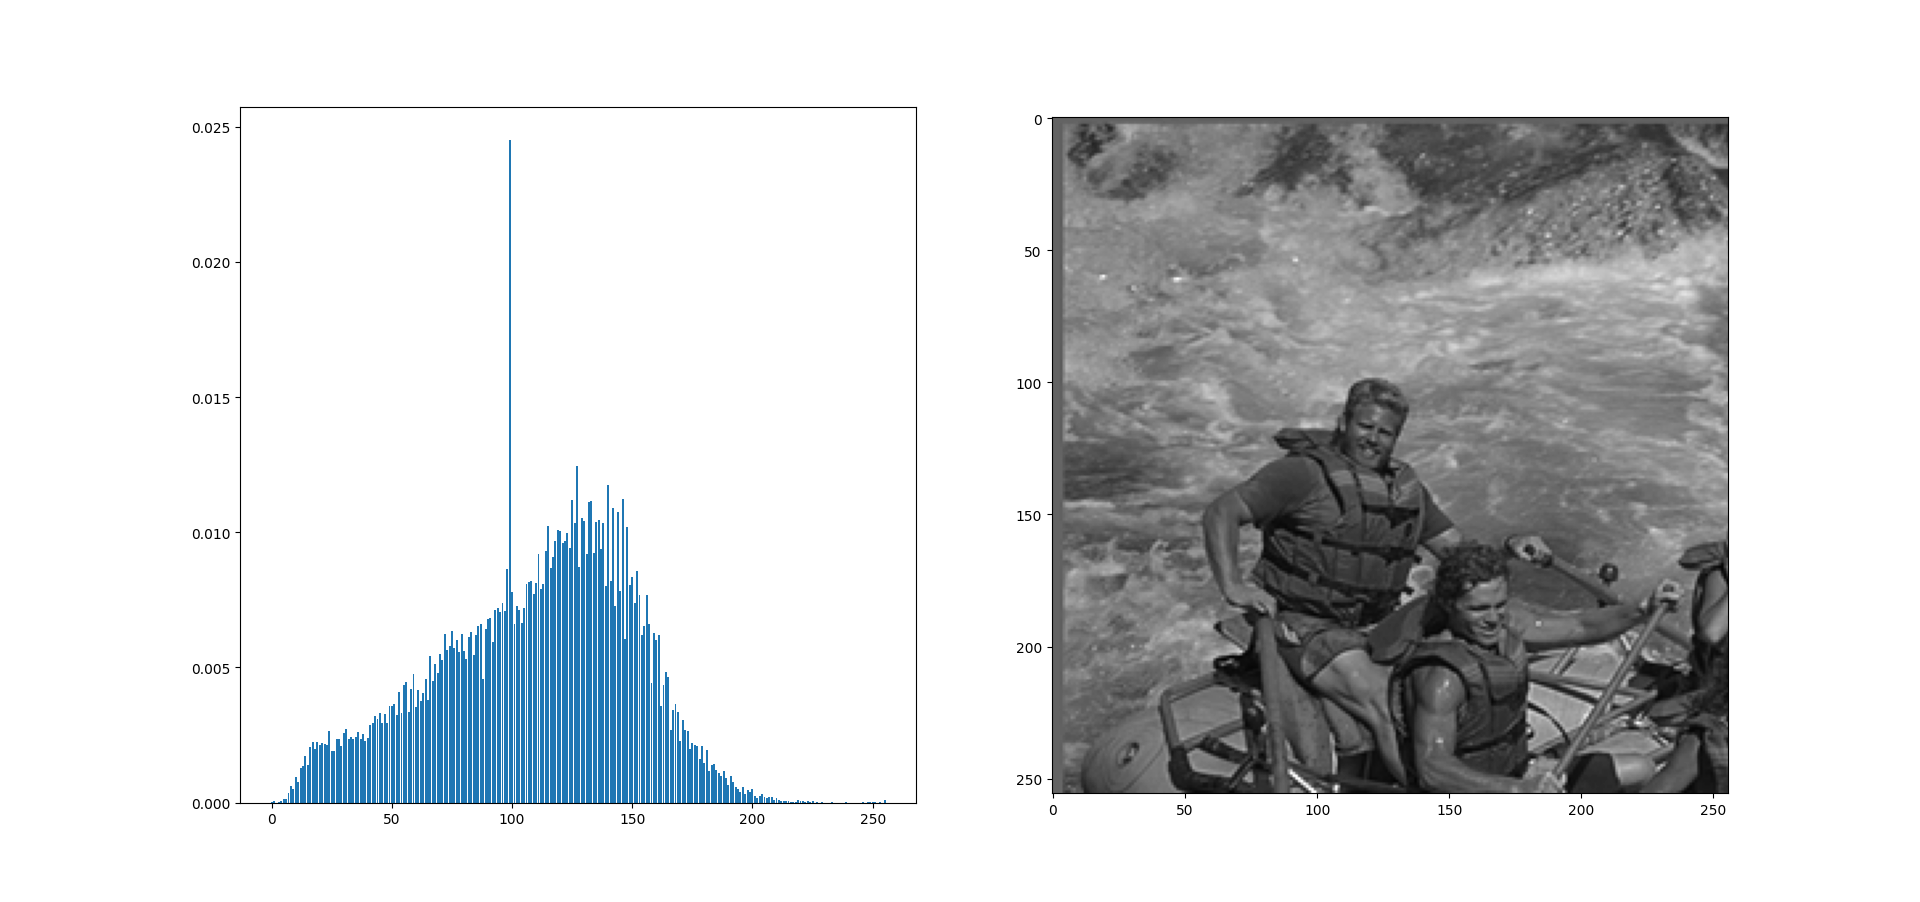
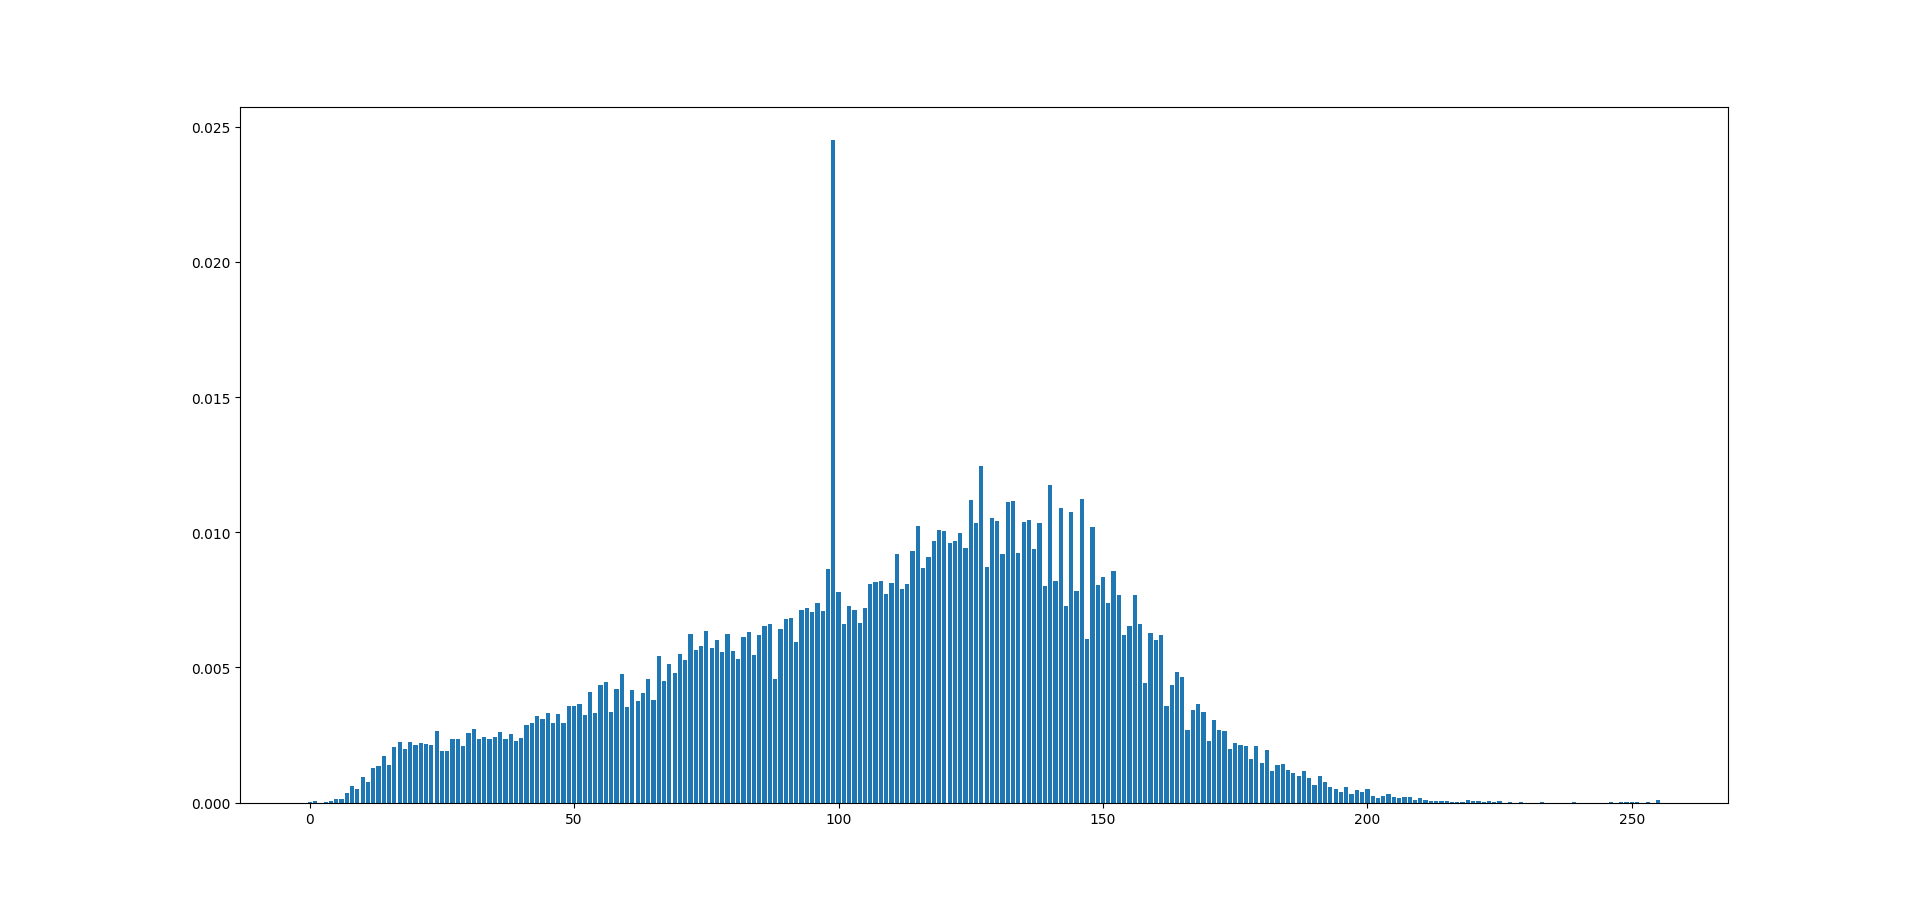
lab6

diff --git a/lab6/lab6.py b/lab6/lab6.py
@@ -1,34 +1,47 @@
 import numpy as np
 import matplotlib.pyplot as plt
 import cv2 as cv
-from huffman import huffmandict, huffmanenco
-from entropy import entropy
+from huffman import codebook
+from huff import huffmandict, huffmanenco, huffmandeco
+from func import count_variances, histogram, entropy, avg_length, compression
 
 
 img_name = 'test_images/kodim14.png'
 img = cv.cvtColor(cv.imread(img_name)
                   [..., ::-1][:256, :256], cv.COLOR_BGR2GRAY)
 
-ref = np.arange(256)
+variances, counts_dict = count_variances(img)
+hist = histogram(variances)
 
-variances = {}
-huff_dict = {}
-values, counts = np.unique(img, return_counts=True)
-for index, value in np.ndenumerate(values):
-    huff_dict[value] = counts[index]
-    variances[value] = counts[index] / img.size
+plt.bar(np.arange(256),  hist)
+plt.show()
 
-hist = np.zeros(ref.size)
-for k, v in variances.items():
-    hist[k] = v
+ent = entropy(variances.values())
+print('Entropy: ' + str(ent))
 
-#plt.subplot(1, 2, 1)
-#plt.bar(ref,  hist)
-#plt.subplot(1, 2, 2)
-#plt.imshow(img, cmap='gray', vmin=0, vmax=255)
-#plt.show()
-
-ent = entropy(img, variances)
-huff_dict = huffmandict(huff_dict)
+print('\nSelf-writtem huffdict')
+huff_dict = huffmandict(counts_dict)
 encoded_img = huffmanenco(img, huff_dict)
-print(ent)
+
+avg_len = avg_length(variances, huff_dict)
+print('Avg length: ' + str(avg_len))
+
+decoded_img = huffmandeco(encoded_img, huff_dict)
+plt.imshow(decoded_img, cmap='gray', vmin=0, vmax=255)
+
+compression_coef = compression(encoded_img, huff_dict)
+print('Compressed: ' + str(compression_coef) + '%')
+
+# Package huffmandict
+print('\nPackage huffdict')
+huff_dict = codebook(counts_dict.items())
+encoded_img = huffmanenco(img, huff_dict)
+
+avg_len = avg_length(variances, huff_dict)
+print('Avg length: ' + str(avg_len))
+
+decoded_img = huffmandeco(encoded_img, huff_dict)
+plt.imshow(decoded_img, cmap='gray', vmin=0, vmax=255)
+
+compression_coef = compression(encoded_img, huff_dict)
+print('Compressed: ' + str(compression_coef) + '%')

diff --git a/lab6/huff.py b/lab6/huff.py
@@ -3,30 +3,20 @@ import numpy as np
 
 # https://www.w3resource.com/python-exercises/challenges/1/python-challenges-1-exercise-58.php
 
-
 def huffmandict(counts_dict: dict):
     from heapq import heappush, heappop, heapify
     from collections import defaultdict
 
-    # mapping of letters to codes
     code = defaultdict(list)
-
-    # Using a heap makes it easy to pull items with lowest frequency.
-    # Items in the heap are tuples containing a list of letters and the
-    # combined frequencies of the letters in the list.
     heap = [(count, [value]) for value, count in counts_dict.items()]
 
-    # Reduce the heap to a single item by combining the two items
-    # with the lowest frequencies.
     while len(heap) > 1:
         freq0, letters0 = heappop(heap)
         for ltr in letters0:
             code[ltr].insert(0, '0')
-
         freq1, letters1 = heappop(heap)
         for ltr in letters1:
             code[ltr].insert(0, '1')
-
         heappush(heap, (freq0+freq1, letters0+letters1))
 
     for k, v in code.items():
@@ -36,7 +26,15 @@ def huffmandict(counts_dict: dict):
 
 
 def huffmanenco(img, huff_dict):
-    result = np.zeros(img.shape, dtype='int')
+    result = np.empty(img.shape, dtype=object)
     for coord, val in np.ndenumerate(img):
-        result[coord[0]][coord[1]] = int('0b' + huff_dict[val], 2)
+        result[coord[0]][coord[1]] = huff_dict[val]
+    return result
+
+
+def huffmandeco(encoded_img: np.ndarray, huff_dict: dict):
+    result = np.zeros(encoded_img.shape, dtype='int')
+    reverse_huff = dict((v,k) for k,v in huff_dict.items())
+    for coord, val in np.ndenumerate(encoded_img):
+        result[coord[0]][coord[1]] = reverse_huff[val]
     return result

diff --git a/lab6/func.py b/lab6/func.py
@@ -1,0 +1,43 @@
+from math import log2
+import numpy as np
+
+
+def count_variances(img):
+    variances = {}
+    counts_dict = {}
+    values, counts = np.unique(img, return_counts=True)
+
+    for index, value in np.ndenumerate(values):
+        counts_dict[value] = counts[index]
+        variances[value] = counts[index] / img.size
+    return variances, counts_dict
+
+
+def histogram(variances):
+    hist = np.zeros(256)
+    for k, v in variances.items():
+        hist[k] = v
+    return hist
+
+
+def entropy(variances: list):
+    ent = 0
+    for val in variances:
+        ent += val * log2(val)
+    return -ent
+
+
+def avg_length(variances: dict, huffman: dict):
+    avg_len = 0
+    for k, v in variances.items():
+        avg_len += v * len(huffman[k])
+    return avg_len
+
+
+def compression(encoded_img: np.ndarray, huff_dict: dict):
+    encoded = 0
+    for _, val in np.ndenumerate(encoded_img):
+        encoded += len(val)
+    for k, v in huff_dict.items():
+        encoded += 8 + len(v)
+    return (encoded_img.size * 8 / encoded) * 100
